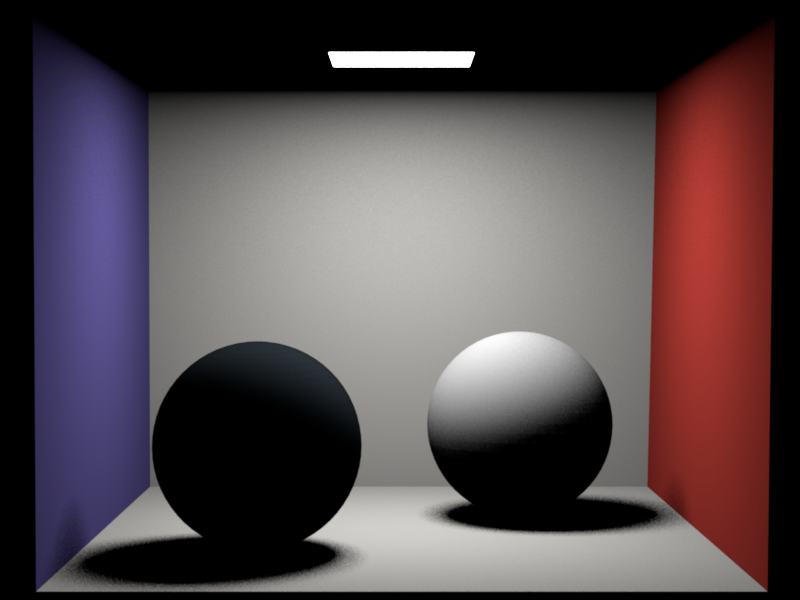
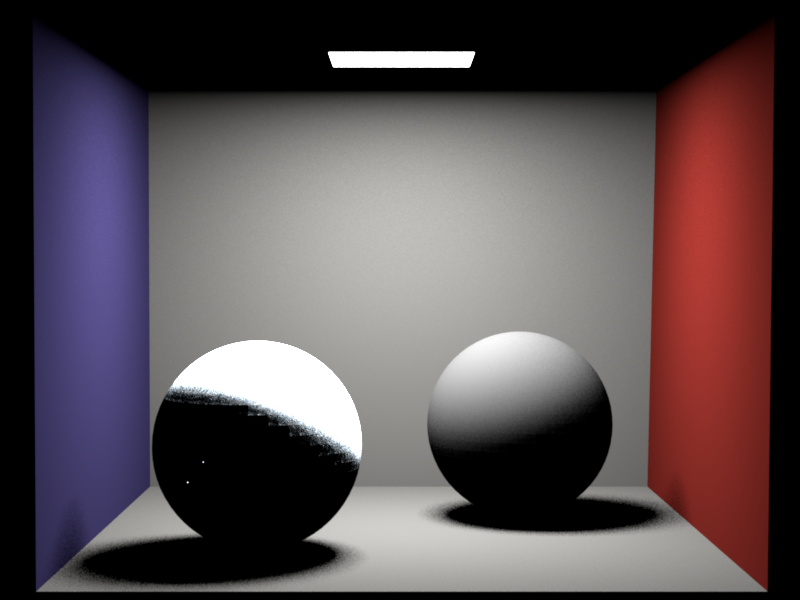
Fixed incorrect r on sss pdf

Changed region(s): [[0.1875, 0.57, 0.4688, 0.78]]

diff --git a/src/subsurface.cpp b/src/subsurface.cpp
@@ -210,7 +210,7 @@ public:
         {
             for (int ch = 0; ch < 3; ch++)
             {
-                pdf += Warp::squareToSrDecayPdf(rProjected[axis], sigmaT[ch]) 
+                pdf += Warp::squareToSrDecayPdf(rProjected[axis]*1000, sigmaT[ch]) 
                         * std::abs(l_n[axis]) 
                         * chProb * axisPdf[axis];
             }

diff --git a/src/whitted.cpp b/src/whitted.cpp
@@ -82,7 +82,7 @@ public:
                 const Ray3f &ray,
                 Intersection &its) const
     {
-        int nSamples = 32;
+        int nSamples = 1;
         Color3f radiance = Color3f(0.0f);
 
         for (int i = 0; i < nSamples ; i++)
